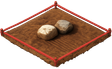
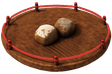
feat: Make road-site plots round

diff --git a/packages/render/src/gpu/plan-road.ts b/packages/render/src/gpu/plan-road.ts
@@ -1,7 +1,7 @@
 import { type Container, Graphics, Sprite, type Texture } from 'pixi.js';
 
 /**
- * A pegged plot of cobbles: the marker for one planned road node, in the road tool's preview and on a laid
+ * A round, pegged plot of cobbles: the marker for one planned road node, in the road tool's preview and on a laid
  * site until its road is paved. Its stones say whether the node takes a road: grey where it can go, red
  * where it cannot. A claimed site pulls the pegs and plants the builder's flag in the plot instead. All
  * three pieces of art share one frame and ground point.
@@ -16,9 +16,11 @@ export type PlanRoadLook = keyof PlanRoadTextures;
 
 /** World px across the plot; the art is generated for this project, sized by eye against a settler. */
 const PLOT_WIDTH = 30;
-/** Where the plot's centre meets the ground, as fractions of the art. */
-const ART_GROUND = { x: 0.498, y: 0.464 } as const;
-const ART_ASPECT = 1024 / 631;
+/** Where the plot's centre meets the ground, as fractions of the art: the middle of the rim's ellipse. */
+const ART_GROUND = { x: 0.499, y: 0.435 } as const;
+const ART_WIDTH_PX = 112;
+const ART_HEIGHT_PX = 74;
+const ART_ASPECT = ART_WIDTH_PX / ART_HEIGHT_PX;
 const PLOT_HEIGHT = PLOT_WIDTH / ART_ASPECT;
 
 /** The drawn box around the ground point, for hit bounds: left, top, right and bottom offsets. */
